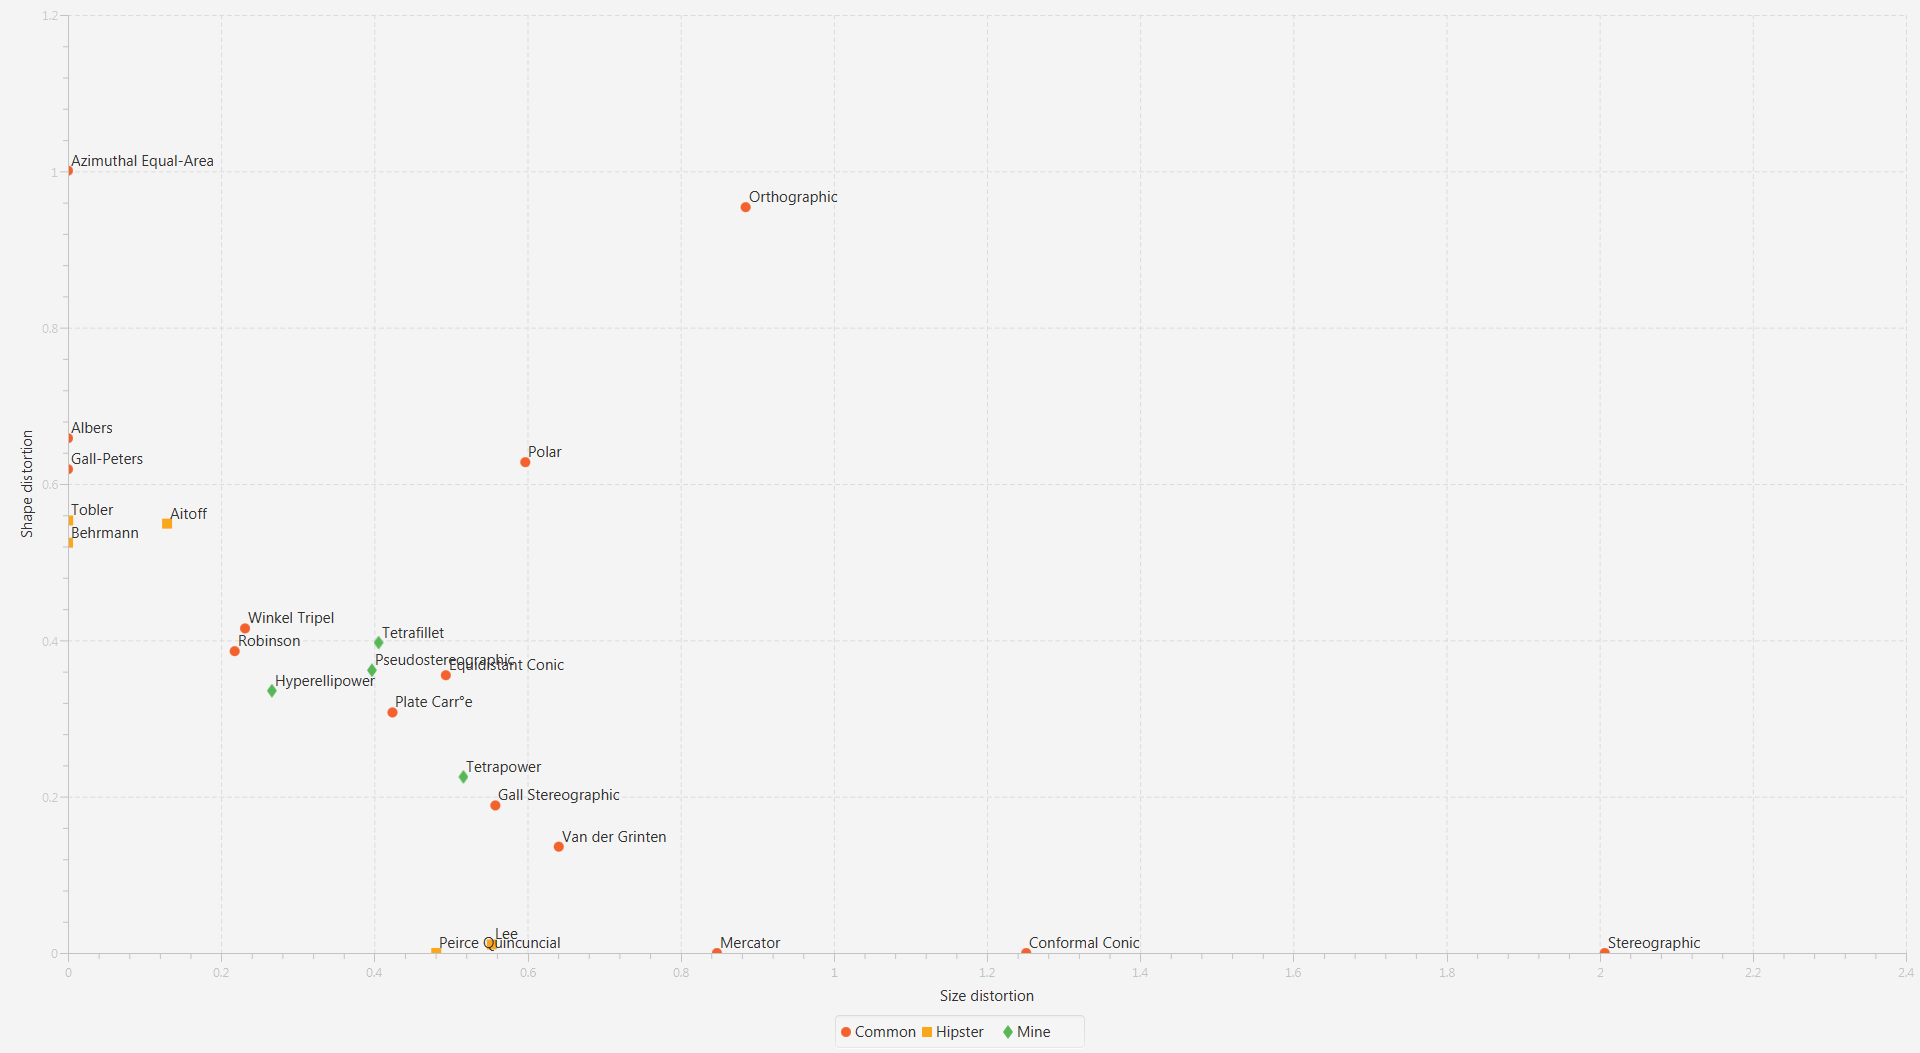
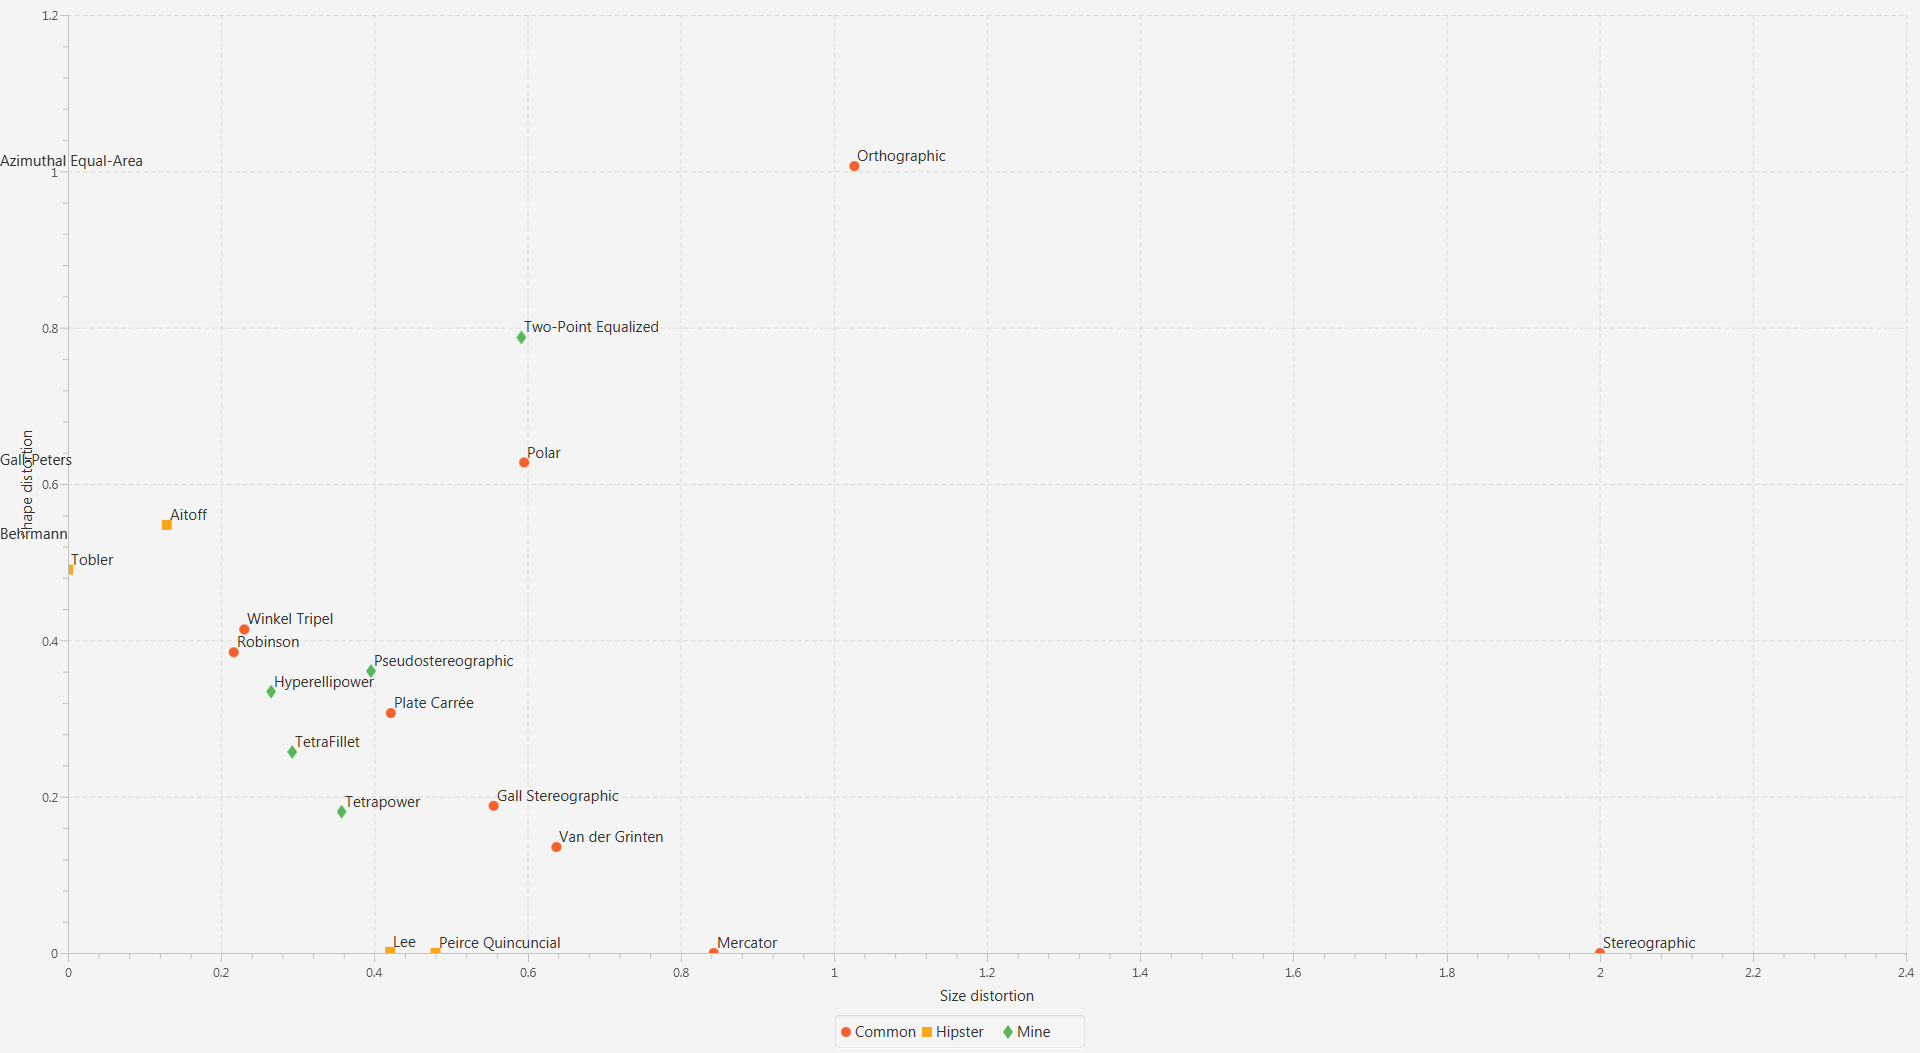
Final Deliverables
I updated all my images and html based on the new parameters.

diff --git a/src/apps/MapPlotter.java b/src/apps/MapPlotter.java
@@ -63,6 +63,7 @@ import maps.WinkelTripel;
  */
 public class MapPlotter extends Application {
 
+	private static final double GLOBE_RES = .002;
 	
 	private static final Projection[] COMMON = { Azimuthal.STEREOGRAPHIC, Cylindrical.MERCATOR,
 			Azimuthal.POLAR, Cylindrical.PLATE_CARREE, Azimuthal.EQUAL_AREA,
@@ -95,7 +96,7 @@ public class MapPlotter extends Application {
 		
 		final List<Label> labels = new LinkedList<Label>();
 		final List<Data<Number,Number>> data = new LinkedList<Data<Number,Number>>();
-		final double[][][] points = Projection.globe(.02);
+		final double[][][] points = Projection.globe(GLOBE_RES);
 		
 		plotProjections(plot, overlay, labels, data, COMMON, "Common", points);
 		plotProjections(plot, overlay, labels, data, UNCOMMON, "Hipster", points);
@@ -112,7 +113,7 @@ public class MapPlotter extends Application {
 						drawLabelsAndSave(plot, labels, data);
 					}
 				};
-				timer.schedule(task, 200);
+				timer.schedule(task, 1000);
 			}
 		};
 		plot.widthProperty().addListener(listener);

diff --git a/src/utils/SVGMap.java b/src/utils/SVGMap.java
@@ -80,27 +80,6 @@ public class SVGMap implements Iterable<SVGMap.Path> {
 			}
 			
 			@Override
-			public void notationDecl(String name, String publicId, String systemId) {
-				System.out.println("notatien: "+name+", "+publicId+", "+systemId);
-			}
-			
-			@Override
-			public void setDocumentLocator(Locator locator) {
-				System.out.println("The locator is now "+locator);
-			}
-			
-			@Override
-			public void startDocument() {
-				System.out.println("begin!");
-			}
-			
-			@Override
-			public void unparsedEntityDecl(
-					String name, String publicId, String systemId, String notationName) {
-				System.out.println("unparsed entity: "+name+", "+publicId+", "+systemId+", "+notationName);
-			}
-			
-			@Override
 			public void startElement(
 					String uri, String localName, String qName, Attributes attributes) {
 				currentFormatString += "<"+qName;
